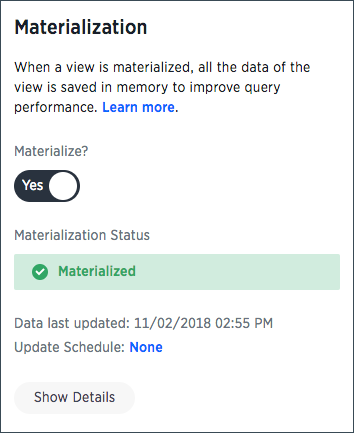
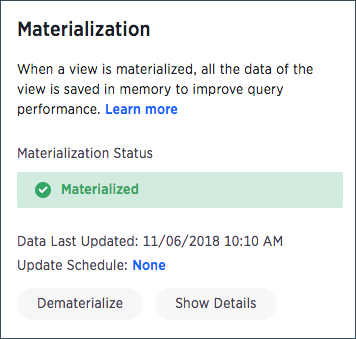
Late UX changes to materialization

diff --git a/_admin/loading/materialize-a-view.md b/_admin/loading/materialize-a-view.md
@@ -22,9 +22,9 @@ To materialize a view:
 
 4. If needed, [add joins]({{ site.baseurl }}/admin/data-modeling/create-new-relationship.html).
 
-5. Under **Materialization**, find **Materialize** and click the checkbox.
+5. Under **Materialization**, click **Materialize**.
 
-   ![]({{ site.baseurl }}/images/materialization-dialog-off.png)
+   ![]({{ site.baseurl }}/images/materialization_dialog_off.png)
 
 6. Fill in the details for [primary key]({{ site.baseurl }}/admin/loading/constraints.html), [sharding key, and number of shards]({{ site.baseurl }}/admin/loading/sharding.html).
 
@@ -46,7 +46,11 @@ To materialize a view:
 
 10. Click **Update**.
 
-11. You can see the status of the materialization as it progresses. Click **Update status** to refresh it. When it says **Materialized** your materialized view is ready for search.
+11. You can see the status of the materialization as it progresses. Click **Update status** to refresh it.
+
+    ![]({{ site.baseurl }}/images/materialization-update-status.png)
+
+12. When it says **Materialized** your materialized view is ready for search.
 
     ![]({{ site.baseurl }}/images/materialization-dialog-on.png)
 

diff --git a/_admin/loading/dematerialize-a-view.md b/_admin/loading/dematerialize-a-view.md
@@ -19,6 +19,8 @@ To dematerialize a view:
 
    ![]({{ site.baseurl }}/images/materialization-dialog-on.png)
 
+   You will see a warning message that the data in the view will be removed from memory. Click **Remove** to confirm.
+
 7. You can see the status of the dematerialization as it progresses. Click **Update status** to refresh it.
 
    Remember that at this point your view is still searchable. It just isn't materialized into memory. If you want to remove the view altogether, you still need to delete the view.
